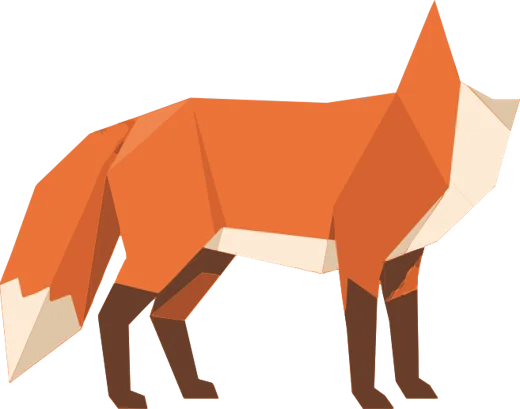
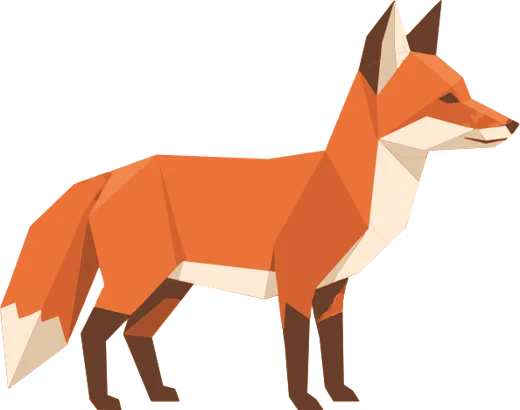
Studio projector: whole animals in the holograms; the buck is back (#53)
The origami holograms were rendered from only the top level of each animal's
parts, so pieces that hang off another part (the fox's head, the hare's
ears, the buck's head and antlers) were missing. They're redrawn with every
nested part, in the same order the site draws them, and the buck rejoins the
rotation.

Claude-Session: https://claude.ai/code/session_0195hiXiVZY5DpQ2CCYEr2vL

diff --git a/studio/table/shelf.js b/studio/table/shelf.js
@@ -27,9 +27,9 @@
   // keep to the footer's side shelves, where the light shows (the header's night shade would cover it)
   var LAMP = { 'jar-off': ['jar-on', 'amber'], compass: ['compass-night', 'radium'], vial: ['vial-night', 'green'],
     'firefly-jar': ['firefly-jar-night', 'firefly'], projector: ['projector-night', 'holo'] };
-  // the projector's holograms, from our other work: Marley and the paper animals (the origami cast) and the
-  // squid from the Parts Catalog. By night one floats over the lens; a tap on it flickers to the next
-  var HOLO = ['marley', 'squid', 'fox', 'owl', 'hare'];
+  // the projector's holograms, from our other work: Marley and the paper animals (the origami cast, drawn
+  // with every nested part, heads included) and the squid from the Parts Catalog. By night one floats over the lens; a tap on it flickers to the next
+  var HOLO = ['marley', 'squid', 'fox', 'owl', 'hare', 'buck'];
   function hologram(box) {
     var beam = document.createElement('span'); beam.className = 'beam';
     var holo = document.createElement('div'); holo.className = 'holo';

diff --git a/studio/index.php b/studio/index.php
@@ -111,6 +111,6 @@ $in = studio_logged_in();
 <script src="table/table.js?v=22"></script>
 <script src="table/river.js?v=6"></script>
 <script src="table/switch.js?v=6"></script>
-<script src="table/shelf.js?v=14"></script>
+<script src="table/shelf.js?v=15"></script>
 </body>
 </html>
